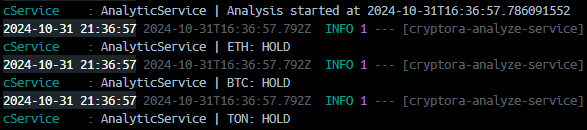
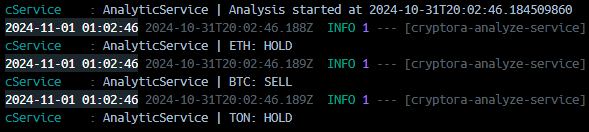
Refactor `AnalyticService` for flexibility in signal generation
- Introduced `calculateThresholds` method to dynamically calculate `thresholdUpper` and `thresholdLower` values based on a flexible coefficient system, improving adaptability for different market conditions.
- Simplified `sendSignalMessage` by removing unused `longTermValue` parameter and directly passing calculated thresholds, enhancing method focus and readability.
- Updated `evaluateSignals` to use `thresholdUpper` and `thresholdLower` from the new `calculateThresholds` method, ensuring consistent signal logic across dynamic thresholds.
- Improved logging within the `analyzeAndGenerateSignals` workflow to aid in tracking the analysis start time and identifying skipped tickers due to insufficient data.
- Refactored code structure for modularity and clarity, supporting easier modifications and testing of the threshold adjustment system.

Changed region(s): [[0.0, 0.0, 1.0, 0.9538]]

diff --git a/src/main/java/com/dzenthai/cryptora/analyze/service/AnalyticService.java b/src/main/java/com/dzenthai/cryptora/analyze/service/AnalyticService.java
@@ -11,6 +11,7 @@ import org.ta4j.core.BarSeries;
 import org.ta4j.core.BaseBar;
 import org.ta4j.core.BaseBarSeries;
 import org.ta4j.core.indicators.SMAIndicator;
+import org.ta4j.core.indicators.ATRIndicator;
 import org.ta4j.core.indicators.helpers.ClosePriceIndicator;
 import org.ta4j.core.num.DecimalNum;
 import org.ta4j.core.num.Num;
@@ -39,6 +40,12 @@ public class AnalyticService {
     @Value("${cryptora.long.time.period}")
     private Integer longTimePeriod;
 
+    @Value("${cryptora.atr.period}")
+    private Integer atrPeriod;
+
+    @Value("${cryptora.atr.multiplier}")
+    private Double atrMultiplier;
+
     public AnalyticService(
             QuoteService quoteService,
             MessageSender messageSender
@@ -51,7 +58,6 @@ public class AnalyticService {
     public void analyzeAndGenerateSignals() {
         log.info("AnalyticService | Analysis started at {}", LocalDateTime.now());
         var quotesByTicker = groupQuotesByTicker();
-
         quotesByTicker.forEach(this::analyzeTickerQuotes);
     }
 
@@ -81,15 +87,24 @@ public class AnalyticService {
         Num shortTermValue = shortTermSMA.getValue(series.getEndIndex());
         Num longTermValue = longTermSMA.getValue(series.getEndIndex());
 
-        sendSignalMessage(latestPrice, shortTermValue, longTermValue, shortCut);
+        var thresholds = calculateThresholds(series, longTermValue);
+        sendSignalMessage(latestPrice, shortTermValue, thresholds[0], thresholds[1], shortCut);
     }
 
-    private void sendSignalMessage(Num latestPrice, Num shortTermValue, Num longTermValue, String shortCut) {
-        var threshold = longTermValue.multipliedBy(DecimalNum.valueOf(1.01));
+    private Num[] calculateThresholds(BarSeries series, Num longTermValue) {
+        ATRIndicator atrIndicator = new ATRIndicator(series, atrPeriod);
+        Num atrValue = atrIndicator.getValue(series.getEndIndex());
 
-        if (shortTermValue.isGreaterThan(threshold) && latestPrice.isGreaterThan(shortTermValue)) {
+        Num thresholdUpper = longTermValue.plus(atrValue.multipliedBy(DecimalNum.valueOf(atrMultiplier)));
+        Num thresholdLower = longTermValue.minus(atrValue.multipliedBy(DecimalNum.valueOf(atrMultiplier)));
+
+        return new Num[]{thresholdUpper, thresholdLower};
+    }
+
+    private void sendSignalMessage(Num latestPrice, Num shortTermValue, Num thresholdUpper, Num thresholdLower, String shortCut) {
+        if (shortTermValue.isGreaterThan(thresholdUpper) && latestPrice.isGreaterThan(shortTermValue)) {
             sendMessage("Buy", shortCut);
-        } else if (shortTermValue.isLessThan(threshold) && latestPrice.isLessThan(shortTermValue)) {
+        } else if (shortTermValue.isLessThan(thresholdLower) && latestPrice.isLessThan(shortTermValue)) {
             sendMessage("Sell", shortCut);
         } else {
             sendMessage("Hold", shortCut);

diff --git a/src/main/java/com/dzenthai/cryptora/analyze/service/QuoteService.java b/src/main/java/com/dzenthai/cryptora/analyze/service/QuoteService.java
@@ -68,5 +68,4 @@ public class QuoteService {
                 .datetime(datetime)
                 .build();
     }
-
 }

diff --git a/README.md b/README.md
@@ -1,16 +1,17 @@
 ![Java Version](https://img.shields.io/badge/Java-v23-red)
 ![Repository Size](https://img.shields.io/github/repo-size/dzenthai/Cryptora-Analyze-Service?color=red)
 
-<div style="text-align: center;">
-    <img src="./assets/Binance-logo.png" style="width: 65px; height: 65px;" alt="">
-    <img src="./assets/Intellij-logo.png" style="width: 65px; height: 65px;" alt="">
-</div>
+<img src="./assets/Binance-logo.png" style="width: 65px; height: 65px;" alt="">
+<img src="./assets/Intellij-logo.png" style="width: 65px; height: 65px;" alt="">
 
 ## **Description**
 
-**Cryptora-Analyze-Service** is a Spring Boot application that performs real-time cryptocurrency market analysis using
-the Binance API and RabbitMQ. The service tracks price movements, analyzes short- and long-term trends, and generates
-trading signals (buy, sell, hold), which are sent through RabbitMQ.
+**cryptora-analyze-service**  is a Spring Boot application that retrieves cryptocurrency data from the Binance API and
+analyzes it based on price fluctuations.
+The service tracks price movements of various cryptocurrencies and assesses both short-term and long-term trends,
+utilizing the Average True Range (ATR) with configurable periods and multipliers to enhance its insights.
+A key advantage of this application is its ability to transmit data to other services or bots, such as Telegram,
+using RabbitMQ, facilitating seamless integration and communication for generating trading signals (buy, sell, hold).
 
 ---
 
@@ -53,14 +54,15 @@ trading signals (buy, sell, hold), which are sent through RabbitMQ.
 
 ### **Cryptocurrency Analysis**
 
-The application, deployed in Docker, performs cryptocurrency analysis and provides recommendations, such as "Hold" or "
-Sell". The logs show the real-time analysis results for each cryptocurrency.
+The application, deployed in Docker, performs cryptocurrency analysis and provides recommendations,
+such as "Buy", "Sell" or "Hold". The logs show the real-time analysis results for each cryptocurrency.
 
 <img src="./assets/Docker-example.png" alt="">
 
 In the example above:
 
-The analytic service starts the analysis and determines that for ETH, BTC, and TON, the recommended action is to hold (HOLD).
+The analytic service starts the analysis and determines that for ETH, BTC, and TON,
+the recommended actions is to sell BTC and hold ETC and TON.
 
 ### **RabbitMQ Message Queue**
 
@@ -74,7 +76,7 @@ The image above shows a queue with multiple messages:
 
 * Message 1: Recommendation to Hold ETH.
 * Message 2: Recommendation to Hold BTC.
-* Message 3: Recommendation to Sell TON. 
+* Message 3: Recommendation to Sell TON.
 
 Each message contains additional attributes, such as priority, delivery_mode, and content_type, which allow the system
 to handle them flexibly and provide recommendations in real time.
@@ -114,16 +116,16 @@ to handle them flexibly and provide recommendations in real time.
 
 ## **Additional Information**
 
-### **Changing Cryptocurrency Pairs**
+### **Adding or Changing Cryptocurrency**
 
-To add new cryptocurrency pairs, update the `Ticker` class by adding them to the Ticker enum:
+To add new cryptocurrency, update the `Ticker` class by adding them to the Ticker enum:
 
 ```java
 enum Ticker {
     BTC,
     ETH,
     TON,
-    // add a new pair here
+    // add a new cryptocurrency here
 }
 ```
 
@@ -146,17 +148,22 @@ application.yaml file:
 cryptora:
   short:
     time:
-      period: 50
+      period: 50 #short-term
   long:
     time:
-      period: 200
+      period: 200 #long-term
+  atr:
+    period: 14 # atr period
+    multiplier: 2.0 # atr multiplier
 ```
 
 Also, it is recommended to adjust the duration in the `AnalyticService` class to match, as shown below:
 
 ```java
-var bar = new BaseBar(
-        Duration.ofHours(1)
-        // Other settings...
-);
+private Bar buildBar(ZonedDateTime endTime, Quote quote) {
+    return new BaseBar(
+            Duration.ofHours(1) // Also supports setting in seconds, minutes, days, etc.
+            // Other settings...
+    );
+}
 ```
